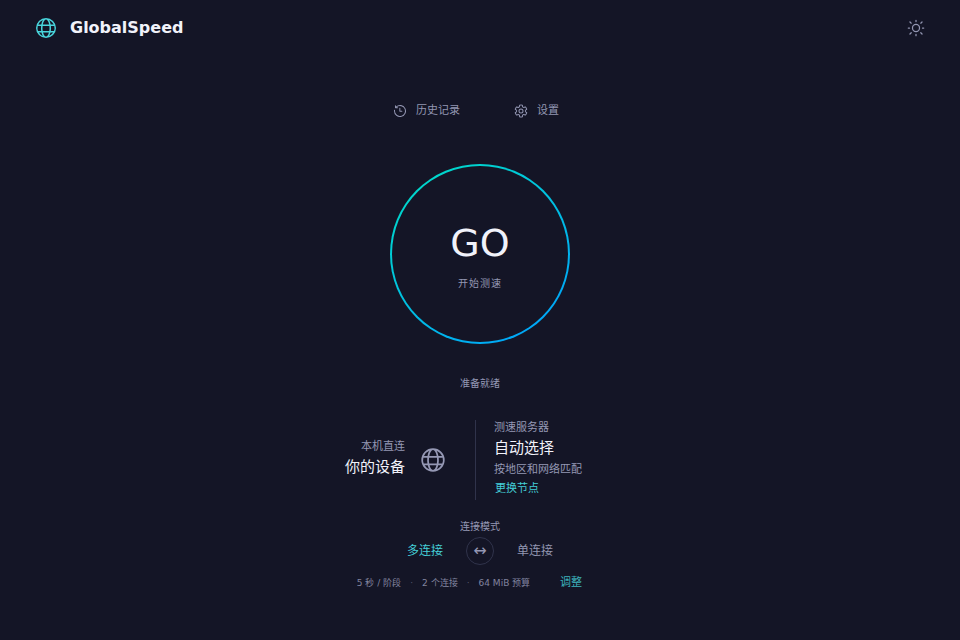
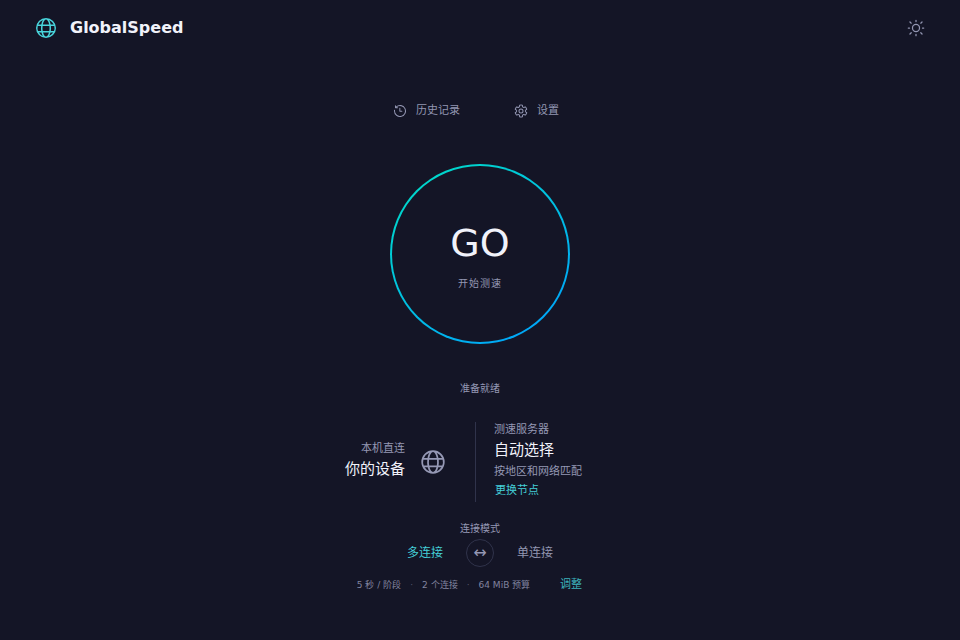
Recreate Speedtest-style gauge motion and document animation study

diff --git a/frontend/src/style.css b/frontend/src/style.css
@@ -1,4 +1,4 @@
-*{box-sizing:border-box}body{margin:0;font-family:"Segoe UI Variable","Segoe UI",system-ui,"PingFang SC",sans-serif}button,input,select{font:inherit}.app{--gs-bg:#f2f2f2;--gs-fg:#16171a;--gs-muted:#68738c;--gs-line:#dce2ed;--gs-accent:#007d95;--gs-upload:#875bc9;min-height:100vh;background:var(--gs-bg);color:var(--gs-fg)}[data-theme=dark] .app{--gs-bg:#141526;--gs-fg:#f1f2fa;--gs-muted:#9598b4;--gs-line:#30334b;--gs-accent:#49d5dc;--gs-upload:#b89afa}main{width:100%;min-height:100vh}header{height:56px;max-width:1080px;margin:auto;display:flex;align-items:center;justify-content:space-between;padding:0 28px}header nav{display:flex;gap:14px;align-items:center}header nav button{color:var(--gs-muted)!important;font-weight:400!important}header nav .nav-selected{color:var(--gs-fg)!important}.brand{background:none;border:0;color:var(--gs-fg);display:flex;align-items:center;gap:12px;text-align:left;cursor:pointer;font-size:16px;font-weight:650}.brand>svg{width:24px;height:24px;color:var(--gs-accent)}.brand small{display:block;font-size:8px;letter-spacing:2.4px;color:var(--gs-muted);margin-top:2px}.content{max-width:1000px;padding:24px 38px 32px;margin:auto}.speed-content{max-width:740px;padding:14px 28px 12px}.headline-metrics{display:flex;justify-content:center;gap:72px;text-align:center}.headline-metric{min-width:160px}.headline-metric>span{display:flex;align-items:center;justify-content:center;gap:8px;font-size:13px}.headline-metric svg{width:19px;height:19px;color:var(--gs-accent)}.headline-metric.upload svg{color:var(--gs-upload)}.headline-metric small{font-size:11px;color:var(--gs-muted)}.headline-metric strong{display:block;font-size:38px;line-height:1.3;font-weight:400;font-variant-numeric:tabular-nums;letter-spacing:-1px}.latency-row{display:flex;justify-content:center;align-items:center;gap:24px;color:var(--gs-muted);font-size:12px;margin-top:10px}.latency-row b{color:var(--gs-fg);font-weight:500;margin-left:10px}.latency-row small{margin-left:5px;font-size:10px}.latency-row i{height:12px;width:1px;background:var(--gs-line)}.test-stage{--gauge-width:clamp(270px,calc((100dvh - 320px)*1.12),400px);width:var(--gauge-width);max-width:100%;height:auto;aspect-ratio:480/370;position:relative;margin:12px auto 0;display:grid;place-items:center}.speedometer{width:100%;height:auto;position:absolute;inset:0;pointer-events:none;--gs-dial-color:var(--gs-accent)}.upload-dial{--gs-dial-color:var(--gs-upload)}.gauge-track{fill:none;stroke:var(--gs-line);stroke-width:12;stroke-linecap:round}.gauge-fill{fill:none;stroke:var(--gs-dial-color);stroke-width:12;stroke-linecap:round;filter:drop-shadow(0 0 7px color-mix(in srgb,var(--gs-dial-color) 25%,transparent));transition:stroke .25s}.gauge-tick{stroke:var(--gs-muted);stroke-width:1;opacity:.45}.gauge-label{fill:var(--gs-muted);font-size:11px;text-anchor:middle;dominant-baseline:middle}.gauge-needle line{stroke:var(--gs-dial-color);stroke-width:2.5;stroke-linecap:round}.gauge-needle circle{fill:var(--gs-dial-color)}.go-button{position:relative;width:32%;height:auto;aspect-ratio:1;margin-top:2%;border:1px solid var(--gs-line);border-radius:50%;background:var(--gs-bg);color:var(--gs-fg);display:flex;flex-direction:column;align-items:center;justify-content:center;cursor:pointer;transition:background .2s,border-color .2s}.go-button:hover{background:color-mix(in srgb,var(--gs-accent) 6%,var(--gs-bg));border-color:var(--gs-accent)}.go-button:focus-visible{outline:2px solid var(--gs-accent);outline-offset:5px}.go-button:disabled{cursor:default;opacity:.4}.go-button span{font-size:clamp(20px,3.2vh,26px);font-weight:400;letter-spacing:2px}.go-button small{font-size:10px;letter-spacing:3px;color:var(--gs-muted);margin-top:10px}.dial-reading{position:absolute;top:59%;left:50%;transform:translateX(-50%);min-width:160px;display:flex;align-items:center;flex-direction:column;gap:2px}.dial-reading>span{font-size:11px;color:var(--gs-muted)}.dial-reading strong{font-size:clamp(26px,4.5vh,36px);line-height:1.2;font-weight:400;font-variant-numeric:tabular-nums}.dial-reading>small{font-size:11px;color:var(--gs-muted)}.dial-reading button{color:var(--gs-muted)!important;font-size:11px;margin-top:4px;min-height:24px!important;padding:2px 8px!important}.status{margin-top:2px;text-align:center;min-height:22px;font-size:12px;color:var(--gs-muted)}.connection-info{display:grid;grid-template-columns:1fr 1.25fr;gap:50px;max-width:580px;margin:16px auto 0;padding-top:14px;border-top:1px solid var(--gs-line)}.device-info{display:flex;align-items:center;gap:15px}.device-info>svg{color:var(--gs-muted);width:28px;height:28px}.connection-info span,.connection-info small{display:block;font-size:11px;color:var(--gs-muted)}.connection-info strong{display:block;font-size:15px;font-weight:500;margin:6px 0}.connection-info small{font-size:10px}.server-info{display:flex;align-items:center;justify-content:space-between;gap:8px}.server-info button,.test-caption button{color:var(--gs-accent)!important;font-size:11px!important;font-weight:400!important}.test-caption{display:flex;align-items:center;justify-content:center;gap:9px;color:var(--gs-muted);font-size:10px;margin-top:10px}.test-caption span{opacity:.6}.secondary-content{padding-top:35px}.page-heading{margin-bottom:28px}h1{font-size:25px;font-weight:500;margin:0 0 10px}.page-heading p{font-size:12px;color:var(--gs-muted);margin:0}h2{font-size:15px;font-weight:500;margin:0}.filters{display:flex;gap:16px;margin-bottom:10px}.filters>*{flex:1}.secondary-content>div[class*="fui-Card"]{padding:24px;background:transparent;border:1px solid var(--gs-line);box-shadow:none}.settings-card{max-width:600px;margin:auto;gap:22px!important}.muted{font-size:12px;line-height:1.8;color:var(--gs-muted)}.pagination{display:flex;align-items:center;gap:8px;margin-top:14px;font-size:12px}.pagination span{margin-right:auto;color:var(--gs-muted)}.mono{font-family:ui-monospace,monospace;font-size:12px}.empty{text-align:center;padding:65px 20px;color:var(--gs-muted)}.empty svg{width:36px;height:36px;margin-bottom:20px}.empty p{font-size:12px}.error{border:1px solid #a85065;background:color-mix(in srgb,#a85065 10%,var(--gs-bg));border-radius:8px;padding:12px 16px;color:var(--gs-fg);font-size:12px;overflow-wrap:anywhere;margin-bottom:20px}@media(max-width:700px){header{padding:0 20px}header nav{gap:0}.brand small{display:none}.content{padding-left:20px;padding-right:20px}.headline-metrics{gap:30px}.headline-metric{min-width:130px}.connection-info{gap:20px}.headline-metric strong{font-size:40px}}
+*{box-sizing:border-box}body{margin:0;font-family:"Segoe UI Variable","Segoe UI",system-ui,"PingFang SC",sans-serif}button,input,select{font:inherit}.app{--gs-bg:#f2f2f2;--gs-fg:#16171a;--gs-muted:#68738c;--gs-line:#dce2ed;--gs-accent:#007d95;--gs-upload:#875bc9;min-height:100vh;background:var(--gs-bg);color:var(--gs-fg)}[data-theme=dark] .app{--gs-bg:#141526;--gs-fg:#f1f2fa;--gs-muted:#9598b4;--gs-line:#30334b;--gs-accent:#49d5dc;--gs-upload:#b89afa}main{width:100%;min-height:100vh}header{height:56px;max-width:1080px;margin:auto;display:flex;align-items:center;justify-content:space-between;padding:0 28px}header nav{display:flex;gap:14px;align-items:center}header nav button{color:var(--gs-muted)!important;font-weight:400!important}header nav .nav-selected{color:var(--gs-fg)!important}.brand{background:none;border:0;color:var(--gs-fg);display:flex;align-items:center;gap:12px;text-align:left;cursor:pointer;font-size:16px;font-weight:650}.brand>svg{width:24px;height:24px;color:var(--gs-accent)}.brand small{display:block;font-size:8px;letter-spacing:2.4px;color:var(--gs-muted);margin-top:2px}.content{max-width:1000px;padding:24px 38px 32px;margin:auto}.speed-content{max-width:740px;padding:14px 28px 12px}.headline-metrics{display:flex;justify-content:center;gap:72px;text-align:center}.headline-metric{min-width:160px}.headline-metric>span{display:flex;align-items:center;justify-content:center;gap:8px;font-size:13px}.headline-metric svg{width:19px;height:19px;color:var(--gs-accent)}.headline-metric.upload svg{color:var(--gs-upload)}.headline-metric small{font-size:11px;color:var(--gs-muted)}.headline-metric strong{display:block;font-size:38px;line-height:1.3;font-weight:400;font-variant-numeric:tabular-nums;letter-spacing:-1px}.latency-row{display:flex;justify-content:center;align-items:center;gap:24px;color:var(--gs-muted);font-size:12px;margin-top:10px}.latency-row b{color:var(--gs-fg);font-weight:500;margin-left:10px}.latency-row small{margin-left:5px;font-size:10px}.latency-row i{height:12px;width:1px;background:var(--gs-line)}.test-stage{--gauge-width:clamp(270px,calc((100dvh - 320px)*1.12),400px);width:var(--gauge-width);max-width:100%;height:auto;aspect-ratio:480/370;position:relative;margin:12px auto 0;display:grid;place-items:center}.speedometer{width:100%;height:auto;position:absolute;inset:0;pointer-events:none;--gs-dial-color:var(--gs-accent)}.upload-dial{--gs-dial-color:var(--gs-upload)}.gauge-track{fill:none;stroke:var(--gs-line);stroke-width:12;stroke-linecap:round}.gauge-fill{fill:none;stroke-width:12;stroke-linecap:round;filter:drop-shadow(0 0 7px color-mix(in srgb,var(--gs-dial-color) 25%,transparent));transition:stroke .25s}.gauge-tick{stroke:var(--gs-muted);stroke-width:1;opacity:.45}.gauge-label{fill:var(--gs-muted);font-size:11px;text-anchor:middle;dominant-baseline:middle}.gauge-needle line{stroke-width:2.5;stroke-linecap:round}.gauge-needle circle{fill:var(--gs-dial-color)}.go-button{position:relative;width:32%;height:auto;aspect-ratio:1;margin-top:2%;border:1px solid var(--gs-line);border-radius:50%;background:var(--gs-bg);color:var(--gs-fg);display:flex;flex-direction:column;align-items:center;justify-content:center;cursor:pointer;transition:background .2s,border-color .2s}.go-button:hover{background:color-mix(in srgb,var(--gs-accent) 6%,var(--gs-bg));border-color:var(--gs-accent)}.go-button:focus-visible{outline:2px solid var(--gs-accent);outline-offset:5px}.go-button:disabled{cursor:default;opacity:.4}.go-button span{font-size:clamp(20px,3.2vh,26px);font-weight:400;letter-spacing:2px}.go-button small{font-size:10px;letter-spacing:3px;color:var(--gs-muted);margin-top:10px}.dial-reading{position:absolute;top:59%;left:50%;transform:translateX(-50%);min-width:160px;display:flex;align-items:center;flex-direction:column;gap:2px}.dial-reading>span{font-size:11px;color:var(--gs-muted)}.dial-reading strong{font-size:clamp(26px,4.5vh,36px);line-height:1.2;font-weight:400;font-variant-numeric:tabular-nums}.dial-reading>small{font-size:11px;color:var(--gs-muted)}.dial-reading button{color:var(--gs-muted)!important;font-size:11px;margin-top:4px;min-height:24px!important;padding:2px 8px!important}.status{margin-top:2px;text-align:center;min-height:22px;font-size:12px;color:var(--gs-muted)}.connection-info{display:grid;grid-template-columns:1fr 1.25fr;gap:50px;max-width:580px;margin:16px auto 0;padding-top:14px;border-top:1px solid var(--gs-line)}.device-info{display:flex;align-items:center;gap:15px}.device-info>svg{color:var(--gs-muted);width:28px;height:28px}.connection-info span,.connection-info small{display:block;font-size:11px;color:var(--gs-muted)}.connection-info strong{display:block;font-size:15px;font-weight:500;margin:6px 0}.connection-info small{font-size:10px}.server-info{display:flex;align-items:center;justify-content:space-between;gap:8px}.server-info button,.test-caption button{color:var(--gs-accent)!important;font-size:11px!important;font-weight:400!important}.test-caption{display:flex;align-items:center;justify-content:center;gap:9px;color:var(--gs-muted);font-size:10px;margin-top:10px}.test-caption span{opacity:.6}.secondary-content{padding-top:35px}.page-heading{margin-bottom:28px}h1{font-size:25px;font-weight:500;margin:0 0 10px}.page-heading p{font-size:12px;color:var(--gs-muted);margin:0}h2{font-size:15px;font-weight:500;margin:0}.filters{display:flex;gap:16px;margin-bottom:10px}.filters>*{flex:1}.secondary-content>div[class*="fui-Card"]{padding:24px;background:transparent;border:1px solid var(--gs-line);box-shadow:none}.settings-card{max-width:600px;margin:auto;gap:22px!important}.muted{font-size:12px;line-height:1.8;color:var(--gs-muted)}.pagination{display:flex;align-items:center;gap:8px;margin-top:14px;font-size:12px}.pagination span{margin-right:auto;color:var(--gs-muted)}.mono{font-family:ui-monospace,monospace;font-size:12px}.empty{text-align:center;padding:65px 20px;color:var(--gs-muted)}.empty svg{width:36px;height:36px;margin-bottom:20px}.empty p{font-size:12px}.error{border:1px solid #a85065;background:color-mix(in srgb,#a85065 10%,var(--gs-bg));border-radius:8px;padding:12px 16px;color:var(--gs-fg);font-size:12px;overflow-wrap:anywhere;margin-bottom:20px}@media(max-width:700px){header{padding:0 20px}header nav{gap:0}.brand small{display:none}.content{padding-left:20px;padding-right:20px}.headline-metrics{gap:30px}.headline-metric{min-width:130px}.connection-info{gap:20px}.headline-metric strong{font-size:40px}}
 
 
 
@@ -50,3 +50,10 @@ html,body,#root{height:100%;overflow:hidden}
 
 .result-state .connection-mode{display:none}
 @media(max-height:620px){.result-state .test-stage{width:84px;height:84px}.result-state .connection-info{margin-top:10px}.result-state .connection-info span{display:none}.result-state .go-button span{font-size:23px}}
+
+.speedometer{--gs-gauge-start:#05af9a;--gs-gauge-end:#9af3b3}.upload-dial{--gs-gauge-start:#6857d8;--gs-gauge-end:#d19aef}.gauge-track{stroke-width:28;stroke-linecap:butt}.gauge-fill{stroke-width:28;stroke-linecap:butt;filter:none;transition:opacity .3s ease}.gauge-fill stop{transition:stop-color .3s ease}.gauge-morph{stroke:var(--gs-line)}.gauge-label{font-size:14px;font-weight:600;fill:var(--gs-muted);opacity:0;transition:fill .2s ease}.gauge-label-passed{fill:var(--gs-fg)}.running-state .gauge-label{animation:gauge-label-intro 80ms ease-out forwards}.gauge-switching .gauge-label{fill:var(--gs-muted)}.gauge-needle-shape{pointer-events:none}.dial-reading{top:62%;gap:0}.dial-reading>span{animation:stage-pulse 1s ease-in-out infinite alternate}.dial-reading strong{font-variant-numeric:tabular-nums}
+@keyframes gauge-label-intro{from{opacity:0}to{opacity:1}}
+@keyframes stage-pulse{from{opacity:.5}to{opacity:1}}
+@media(prefers-reduced-motion:reduce){.running-state .gauge-label,.dial-reading>span{animation:none;opacity:1}.gauge-fill,.gauge-label{transition:none}}
+
+.dial-reading{top:70%}.status{display:flex;align-items:center;justify-content:center;gap:12px;min-height:24px}.gauge-stop{font-size:10px!important;color:var(--gs-muted)!important;min-height:22px!important;padding:0 6px!important}.gauge-stop svg{width:14px;height:14px}.gauge-morph{pointer-events:none}

diff --git a/frontend/src/main.tsx b/frontend/src/main.tsx
@@ -24,37 +24,39 @@ function App(){
  const [duration,setDuration]=useState(5);const [connections,setConnections]=useState(2);const [budget,setBudget]=useState(64);
  const [latency,setLatency]=useState<Ping|null>(null);
  const [auto,setAuto]=useState(true);const [autoNode,setAutoNode]=useState<Server|null>(null);
- const [running,setRunning]=useState(false);const [status,setStatus]=useState('准备就绪');const [error,setError]=useState('');
+ const [running,setRunning]=useState(false);const [closing,setClosing]=useState(false);const [status,setStatus]=useState('准备就绪');const [error,setError]=useState('');
  const [progress,setProgress]=useState<Progress|null>(null);const [result,setResult]=useState<Result|null>(null);const [rates,setRates]=useState<{download?:number;upload?:number}>({});const [tablePage,setTablePage]=useState(0);
  const provinces=useMemo(()=>[...new Set(servers.map(s=>s.pname))],[servers]);
  const filtered=useMemo(()=>servers.filter(s=>(!province||s.pname===province)&&(!operator||s.oper===operator)&&(!search||`${s.hostname} ${s.hostip} ${s.location}`.includes(search))),[servers,province,operator,search]);
  const selected=auto?autoNode:servers.find(s=>s.hostid===serverId);
  useEffect(()=>{if(!filtered.some(s=>s.hostid===serverId))setServerId(filtered[0]?.hostid||'');setTablePage(0)},[filtered]);
  useEffect(()=>{if(running)return;setLatency(null);setResult(null);setProgress(null);setRates({});setError('');setStatus('准备就绪')},[serverId]);
+ useEffect(()=>{if(!closing)return;const timer=setTimeout(()=>setClosing(false),matchMedia('(prefers-reduced-motion: reduce)').matches?0:820);return()=>clearTimeout(timer)},[closing]);
  useEffect(()=>{document.documentElement.dataset.theme=dark?'dark':'light';localStorage.setItem('theme',dark?'dark':'light')},[dark]);
  useEffect(()=>{
   const app=bridge();if(!app){setStatus('请使用桌面程序启动测速');return}
   app.ListServers().then(setServers).catch(e=>setError(String(e)));app.History().then(setRecords).catch(e=>setError(String(e)));
   const events:{[name:string]:(data:any)=>void}={
    'speed:progress':(p:Progress)=>{if(p.ping)setLatency(p.ping);if(p.server)setAutoNode(p.server);setProgress(p);setStatus(phaseNames[p.phase]||p.phase);if(p.phase==='download'||p.phase==='upload')setRates(old=>({...old,[p.phase]:p.mbps}))},
-   'speed:result':(r:Result)=>{setResult(r);if(r.ping)setLatency(r.ping);setAutoNode(r.server);setRunning(false);setStatus('测速完成 · 会话已释放');app.History().then(setRecords).catch(e=>setError(String(e)))},
+   'speed:result':(r:Result)=>{setClosing(true);setResult(r);if(r.ping)setLatency(r.ping);setAutoNode(r.server);setRunning(false);setStatus('测速完成 · 会话已释放');app.History().then(setRecords).catch(e=>setError(String(e)))},
    'speed:error':(e:string)=>{setRunning(false);setProgress(null);setResult(null);setStatus(e.includes('context canceled')?'测速已停止':'测速失败');setError(e==='context canceled'?'':e)},
    'speed:notice':(e:string)=>setError(e),
   };
   Object.entries(events).forEach(([name,handler])=>window.runtime?.EventsOn(name,handler,-1));
   return()=>Object.keys(events).forEach(name=>window.runtime?.EventsOff(name));
  },[]);
- async function start(){const app=bridge();if(!app)return;setRunning(true);if(auto)setAutoNode(null);setLatency(null);setError('');setResult(null);setProgress(null);setRates({});setStatus('连接所选节点…');try{await app.StartSpeed({auto,match:{province,operator},serverId:auto?'':serverId,durationSeconds:duration,connections,maxMiB:budget})}catch(e){setRunning(false);setStatus('测速失败');setError(String(e))}}
+ async function start(){const app=bridge();if(!app)return;setClosing(false);setRunning(true);if(auto)setAutoNode(null);setLatency(null);setError('');setResult(null);setProgress(null);setRates({});setStatus('连接所选节点…');try{await app.StartSpeed({auto,match:{province,operator},serverId:auto?'':serverId,durationSeconds:duration,connections,maxMiB:budget})}catch(e){setRunning(false);setStatus('测速失败');setError(String(e))}}
  async function stop(){setStatus('正在停止并释放会话…');try{await bridge()?.StopSpeed()}catch(e){setError(String(e))}}
  const shownPing=result?.ping??latency;
  const measuring=running&&(progress?.phase==='download'||progress?.phase==='upload');
- const liveSpeed=useAnimatedSpeed(progress?.mbps??0,measuring,progress?.phase??'idle');
- const downSpeed=result?.download.mbps??(running?(progress?.phase==='download'?liveSpeed:rates.download):undefined);
- const upSpeed=result?.upload.mbps??(running?(progress?.phase==='upload'?liveSpeed:rates.upload):undefined);
+ const motion=useAnimatedSpeed(progress?.mbps??0,measuring,progress?.phase??'idle');
+ const liveSpeed=motion.value;
+ const downSpeed=result?.download.mbps??(running?(progress?.phase==='download'?(motion.switching?undefined:liveSpeed):rates.download):undefined);
+ const upSpeed=result?.upload.mbps??(running?(progress?.phase==='upload'?(motion.switching?undefined:liveSpeed):rates.upload):undefined);
  const nodeFilters=<div className="filters"><Field label="省份"><Select value={province} disabled={running} onChange={(_,d)=>{setProvince(d.value);setOperator('')}}><option value="">全部省份</option>{provinces.map(p=><option key={p}>{p}</option>)}</Select></Field><Field label="运营商"><Select value={operator} disabled={running} onChange={(_,d)=>setOperator(d.value)}><option value="">全部运营商</option>{['电信','联通','移动','教育网','广电网'].map(o=><option key={o}>{o}</option>)}</Select></Field></div>;
  return <FluentProvider theme={dark?webDarkTheme:webLightTheme} className="app" style={{backgroundColor:'var(--gs-bg)',color:'var(--gs-fg)'}}>
   <main className={`page-${page}`}><header><button className="brand" onClick={()=>setPage('speed')}><Globe24Regular/><span>GlobalSpeed</span></button><nav>{[{id:'speed',name:'网络测速'},{id:'history',name:'历史记录'},{id:'settings',name:'设置'}].map(item=><Button key={item.id} appearance="transparent" className={page===item.id?'nav-selected':''} onClick={()=>setPage(item.id)}>{item.name}</Button>)}<Button appearance="transparent" icon={dark?<WeatherSunny24Regular/>:<WeatherMoon24Regular/>} aria-label="切换主题" onClick={()=>setDark(!dark)}/></nav></header>
-  <div className={page==='speed'?`content speed-content ${running?'running-state':result?'result-state':'ready-state'}`:'content secondary-content'}>
+  <div className={page==='speed'?`content speed-content ${running||closing?'running-state':result?'result-state':'ready-state'}`:'content secondary-content'}>
   {page!=='speed'&&<div className="page-heading"><h1>{({nodes:'选择测速节点',history:'测速历史',settings:'设置'} as Record<string,string>)[page]}</h1><p>{page==='nodes'?'按地区与运营商筛选节点':page==='history'?'最近 100 次成功测量':'采样参数与界面外观'}</p></div>}
   {error&&<div className="error" role="alert">{error}</div>}
   {page==='speed'&&<>
@@ -62,10 +64,10 @@ function App(){
    <div className="headline-metrics"><div className="headline-metric download"><span><ArrowDown24Regular/>下载 <small>Mbps</small></span><strong>{number(downSpeed)}</strong></div><div className="headline-metric upload"><span><ArrowUp24Regular/>上传 <small>Mbps</small></span><strong>{number(upSpeed)}</strong></div></div>
    <div className="latency-row"><span title="优先 ICMP；不可用时按原版回退到 TCP，显示均值">Ping{shownPing?` · ${shownPing.method.toUpperCase()}`:''} <b>{number(shownPing?.status===0?shownPing.averageMs:undefined)}</b><small>ms</small></span><i/><span title="按原版算法统计相邻成功样本差值">抖动 <b>{number(shownPing?.status===0?shownPing.jitterMs:undefined)}</b><small>ms</small></span></div>
    <div className={'test-stage '+(running?'is-running':'')}>
-    <Speedometer value={liveSpeed} active={measuring} upload={progress?.phase==='upload'}/>
-    {running?<div className="dial-reading"><span>{progress?.phase==='upload'?'上传':progress?.phase==='download'?'下载':'连接中'}</span><strong>{progress?.phase==='download'||progress?.phase==='upload'?number(liveSpeed):'—'}</strong><small>Mbps</small><Button appearance="transparent" icon={<Dismiss24Regular/>} onClick={stop}>停止测速</Button></div>:<button className="go-button" aria-label="开始测速" disabled={(!auto&&!selected)||!bridge()} onClick={start}><span>GO</span><small>{result?'再测一次':'开始测速'}</small></button>}
+    <Speedometer value={liveSpeed} angle={motion.angle} active={measuring} running={running} switching={motion.switching} upload={progress?.phase==='upload'}/>
+    {running||closing?<div className="dial-reading"><span>{closing?'测速完成':motion.switching?'切换阶段':progress?.phase==='upload'?'上传':progress?.phase==='download'?'下载':'连接中'}</span><strong>{closing?number(result?.upload.mbps):progress?.phase==='download'||progress?.phase==='upload'?(motion.switching?'—':number(liveSpeed)):'—'}</strong><small>Mbps</small></div>:<button className="go-button" aria-label="开始测速" disabled={(!auto&&!selected)||!bridge()} onClick={start}><span>GO</span><small>{result?'再测一次':'开始测速'}</small></button>}
    </div>
-   <div className="status" role="status">{status}</div>
+   <div className="status"><span role="status">{status}</span>{running&&<Button appearance="transparent" className="gauge-stop" icon={<Dismiss24Regular/>} onClick={stop}>停止测速</Button>}</div>
    <div className="connection-info"><div className="device-info"><Globe24Regular/><div><span>本机直连</span><strong>你的设备</strong></div></div><div className="server-info"><div><span>测速服务器</span><strong>{selected?.hostname||(auto?'自动选择':'选择节点')}</strong><small>{selected?`${selected.hostip}:${selected.port}`:(auto?'按地区和网络匹配':'606 个运营商节点')}</small></div><Button appearance="transparent" disabled={running} onClick={()=>setPage('nodes')}>更换节点</Button></div></div>
    <div className="connection-mode"><span>连接模式</span><div><Button appearance="transparent" disabled={running} className={connections>1?'mode-active':''} onClick={()=>setConnections(2)}>多连接</Button><span className="connection-divider">↔</span><Button appearance="transparent" disabled={running} className={connections===1?'mode-active':''} onClick={()=>setConnections(1)}>单连接</Button></div></div>
    <div className="test-caption">{duration} 秒 / 阶段 <span>·</span> {connections} 个连接 <span>·</span> {budget} MiB 预算<Button appearance="transparent" size="small" disabled={running} onClick={()=>setPage('settings')}>调整</Button></div>

diff --git a/frontend/src/Speedometer.tsx b/frontend/src/Speedometer.tsx
@@ -1,17 +1,46 @@
-const MAX=1000;
-const fraction=(speed:number)=>Math.log1p(Math.max(0,Math.min(MAX,speed)))/Math.log1p(MAX);
-const point=(angle:number,radius:number)=>{const rad=angle*Math.PI/180;return {x:240+radius*Math.cos(rad),y:210+radius*Math.sin(rad)}};
-const angle=(speed:number)=>150+240*fraction(speed);
-const arc=(()=>{const start=point(150,160),end=point(390,160);return `M${start.x},${start.y} A160,160 0 1 1 ${end.x},${end.y}`})();
-type Props={value:number;active:boolean;upload:boolean};
-export function Speedometer({value,active,upload}:Props){
- const ticks=[0,1,5,10,50,100,500,1000];
- const needle=point(angle(active?value:0),143);
- return <svg className={'speedometer '+(upload?'upload-dial':'')} viewBox="0 0 480 370" role="img" aria-label="实时速度表" data-speed={value.toFixed(3)}>
-  <path className="gauge-track" d={arc} pathLength="100"/>
-  <path className="gauge-fill" d={arc} pathLength="100" strokeDasharray={`${active?fraction(value)*100:0} 100`}/>
-  {Array.from({length:49},(_,i)=>{const outer=point(150+i*5,148),inner=point(150+i*5,i%4===0?136:142);return <line key={i} className="gauge-tick" x1={inner.x} y1={inner.y} x2={outer.x} y2={outer.y}/>})}
-  {ticks.map(speed=>{const pos=point(angle(speed),190);return <text key={speed} className="gauge-label" x={pos.x} y={pos.y}>{speed===1000?'1k+':speed}</text>})}
-  {active&&<g className="gauge-needle"><line x1="240" y1="210" x2={needle.x} y2={needle.y}/><circle cx="240" cy="210" r="5"/></g>}
+import {useEffect,useId,useRef,useState} from 'react';
+import {gaugeStart,gaugeTicks,curve} from './gaugeMotion';
+const center={x:240,y:190},radius=160;
+const point=(angle:number,r:number)=>{const rad=(angle-90)*Math.PI/180;return {x:center.x+r*Math.cos(rad),y:center.y+r*Math.sin(rad)}};
+const start=point(-135,radius),end=point(135,radius);
+const arc=`M${start.x},${start.y} A${radius},${radius} 0 1 1 ${end.x},${end.y}`;
+type Props={value:number;angle:number;active:boolean;running:boolean;upload:boolean;switching:boolean};
+export function Speedometer({value,angle,active,running,upload,switching}:Props){
+ const id=useId().replace(/:/g,'');
+ const lastAngle=useRef(gaugeStart);if(active)lastAngle.current=angle;
+ const [morph,setMorph]=useState({mode:'idle',progress:0});
+ const wasRunning=useRef(false);
+ useEffect(()=>{
+  const mode=running?'entry':wasRunning.current?'exit':'idle';wasRunning.current=running;
+  if(mode==='idle'){setMorph({mode,progress:0});return;}
+  if(matchMedia('(prefers-reduced-motion: reduce)').matches){setMorph({mode:running?'live':'idle',progress:running?1:0});return;}
+  let frame=0;const started=performance.now(),duration=mode==='entry'?350:820;
+  setMorph({mode,progress:0});
+  const animate=(now:number)=>{const progress=Math.min(1,(now-started)/duration);setMorph({mode:progress===1?(running?'live':'idle'):mode,progress});if(progress<1)frame=requestAnimationFrame(animate)};
+  frame=requestAnimationFrame(animate);return()=>cancelAnimationFrame(frame);
+ },[running]);
+ const entry=morph.mode==='entry'?morph.progress:morph.mode==='live'?1:0;
+ const exiting=morph.mode==='exit',exitTime=morph.progress*820;
+ const expanded=curve(Math.min(1,entry*350/200),true);
+ const opened=curve(Math.max(0,(entry*350-200)/150),true);
+ const displayAngle=active?angle:exiting?lastAngle.current:gaugeStart;
+ const progress=(displayAngle-gaugeStart)/270;
+ return <svg className={`speedometer ${upload?'upload-dial':''} ${switching?'gauge-switching':''}`} viewBox="0 0 480 370" role="img" aria-label="实时速度表" data-speed={value.toFixed(3)} data-angle={displayAngle.toFixed(3)} data-switching={switching} data-morph={morph.mode}>
+  <defs>
+   <linearGradient id={`${id}-arc`} x1="0" y1="1" x2="1" y2="0"><stop offset="0" stopColor="var(--gs-gauge-start)"/><stop offset="1" stopColor="var(--gs-gauge-end)"/></linearGradient>
+   <linearGradient id={`${id}-needle`} x1="0" y1="0" x2="0" y2="1"><stop offset="0" stopColor="var(--gs-fg)" stopOpacity=".7"/><stop offset="1" stopColor="var(--gs-fg)" stopOpacity="0"/></linearGradient>
+  </defs>
+  {(morph.mode==='entry'||exiting)&&<circle className="gauge-morph" cx={center.x} cy={center.y}
+   r={exiting?160-105*curve(Math.max(0,(exitTime-420)/220),true):55+105*expanded}
+   fill="none" strokeWidth={exiting?28+82*curve(Math.max(0,(exitTime-420)/220),true):110-82*expanded}
+   opacity={exiting?(exitTime<200?0:1-curve(Math.max(0,(exitTime-640)/180))):1}
+   pathLength="100" strokeDasharray={`${exiting?75+25*curve(Math.max(0,(exitTime-200)/220),true):100-25*opened} 100`}
+   transform={`rotate(135 ${center.x} ${center.y})`}/>}
+  <g opacity={exiting?1-curve(Math.min(1,exitTime/100)):entry===1?1:0}>
+   <path className="gauge-track" d={arc} pathLength="100"/>
+   <path className="gauge-fill" d={arc} pathLength="100" stroke={`url(#${id}-arc)`} strokeDasharray={`${Math.max(0,progress)*100} 100`} opacity={(active||exiting)&&!switching?1:0}/>
+   {gaugeTicks.map((speed,index)=>{const theta=gaugeStart+index*270/(gaugeTicks.length-1),pos=point(theta,121);return <text key={speed} className={`gauge-label ${displayAngle>=theta?'gauge-label-passed':''}`} x={pos.x} y={pos.y} style={{animationDelay:`${index*80}ms`}}>{speed===1000?'1000+':speed}</text>})}
+   {(active||exiting)&&<g transform={`rotate(${displayAngle} ${center.x} ${center.y})`}><path className="gauge-needle-shape" d={`M230,190 L250,190 L243,80 L237,80 Z`} fill={`url(#${id}-needle)`}/></g>}
+  </g>
  </svg>
 }

diff --git a/frontend/src/useAnimatedSpeed.ts b/frontend/src/useAnimatedSpeed.ts
@@ -1,25 +1,40 @@
 import {useEffect,useRef,useState} from 'react';
+import {curve,gaugeAngle,gaugeStart} from './gaugeMotion';
 
-// Presentation only: original samples and final results are not modified.
+type Motion={value:number;angle:number;switching:boolean};
+const empty:Motion={value:0,angle:gaugeStart,switching:false};
+// Presentation state only. Retarget from the currently displayed frame,
+// with a dedicated 500 ms return before tracking the next direction.
 export function useAnimatedSpeed(target:number,active:boolean,phase:string){
- const [value,setValue]=useState(0);
- const current=useRef(0);
- const previousPhase=useRef(phase);
+ const [motion,setMotion]=useState<Motion>(empty);
+ const current=useRef<Motion>(empty);
+ const previousPhase=useRef('idle');
+ const returning=useRef<{start:number;from:Motion}|null>(null);
  useEffect(()=>{
-  if(previousPhase.current!==phase || !active){current.current=0;setValue(0);previousPhase.current=phase;}
-  if(!active)return;
+  if(!active){current.current=empty;setMotion(empty);previousPhase.current='idle';returning.current=null;return;}
   const reduced=matchMedia('(prefers-reduced-motion: reduce)').matches;
   const goal=Number.isFinite(target)?Math.max(0,target):0;
-  if(reduced){current.current=goal;setValue(goal);return;}
-  let frame=0,last=performance.now();
+  if(previousPhase.current!==phase){
+   if(previousPhase.current!=='idle'&&!reduced)returning.current={start:performance.now(),from:current.current};
+   previousPhase.current=phase;
+  }
+  if(reduced){current.current={value:goal,angle:gaugeAngle(goal),switching:false};setMotion(current.current);return;}
+  let frame=0,started=performance.now(),from=current.current;
   const animate=(now:number)=>{
-   const elapsed=Math.min(64,now-last);last=now;
-   current.current+=(goal-current.current)*(1-Math.exp(-elapsed/220));
-   if(Math.abs(goal-current.current)<.005){current.current=goal;setValue(goal);return;}
-   setValue(current.current);frame=requestAnimationFrame(animate);
+   if(returning.current){
+    const reset=returning.current,progress=Math.min(1,(now-reset.start)/500),weight=curve(progress,true);
+    current.current={value:reset.from.value*(1-weight),angle:reset.from.angle+(gaugeStart-reset.from.angle)*weight,switching:progress<1};
+    if(progress===1){returning.current=null;started=now;from=current.current;}
+   }else{
+    const progress=Math.min(1,(now-started)/200),weight=curve(progress);
+    current.current={value:from.value+(goal-from.value)*weight,angle:from.angle+(gaugeAngle(goal)-from.angle)*weight,switching:false};
+    setMotion(current.current);
+    if(progress===1)return;
+   }
+   setMotion(current.current);frame=requestAnimationFrame(animate);
   };
   frame=requestAnimationFrame(animate);
   return()=>cancelAnimationFrame(frame);
  },[target,active,phase]);
- return value;
+ return motion;
 }

diff --git a/frontend/src/gaugeMotion.ts b/frontend/src/gaugeMotion.ts
@@ -1,0 +1,20 @@
+// A segmented scale: each interval occupies the same angle, while values
+// interpolate linearly inside that interval. Angles are measured from 12 o'clock.
+export const gaugeTicks=[0,5,10,50,100,250,500,750,1000];
+export const gaugeStart=-135;
+export function gaugeAngle(speed:number){
+ const value=Number.isFinite(speed)?Math.max(0,speed):0;
+ const segment=gaugeTicks.findIndex(limit=>limit>=value);
+ if(segment<0)return 135;
+ if(segment===0)return gaugeStart;
+ const lower=gaugeTicks[segment-1],upper=gaugeTicks[segment];
+ return gaugeStart+((segment-1)+(value-lower)/(upper-lower))*270/(gaugeTicks.length-1);
+}
+export function curve(progress:number,inOut=false){
+ const t=Math.min(1,Math.max(0,progress));if(t===0||t===1)return t;
+ const x1=inOut?.42:0,x2=.58;
+ const axis=(p:number,a:number,b:number)=>3*(1-p)*(1-p)*p*a+3*(1-p)*p*p*b+p*p*p;
+ let lower=0,upper=1;
+ for(let i=0;i<16;i++){const middle=(lower+upper)/2;if(axis(middle,x1,x2)<t)lower=middle;else upper=middle;}
+ return axis((lower+upper)/2,0,1);
+}

diff --git a/docs/gauge-animation.md b/docs/gauge-animation.md
@@ -1,0 +1,39 @@
+# 仪表动画
+
+## 参考研究
+
+2026-10-05 使用浏览器打开 [Speedtest 官网](https://www.speedtest.net/)，读取页面实际加载的 [前端 JavaScript](https://r.cdnst.net/assets/index-BN2jg79U.js)。该资源文件名可能随发布变化。原始脚本和研究截图只保存在本地临时目录，不加入本项目。
+
+读取到的机制：
+
+| 项目 | 官网实现 |
+| --- | --- |
+| 绘制与驱动 | SVG，React，Motion 的逐帧动画 |
+| 表盘 | 270°，角度从 -135° 到 135° |
+| 刻度 | 0、5、10、50、100、250、500、750、1000 |
+| 速度映射 | 刻度等角度排列，每段内部按速度线性插值，超量程时停在末端 |
+| 实时指针 | 200 ms，ease-out：cubic-bezier(0,0,0.58,1) |
+| 阶段回针 | 500 ms，ease-in-out：cubic-bezier(0.42,0,0.58,1) |
+| 入场 | 圆盘展开成环约 200 ms，环打开为弧约 150 ms |
+| 刻度 | 逐个间隔 80 ms，淡入约 80 ms |
+| 结束 | 100 ms 淡出、100 ms 暂停、220 ms 弧变环、220 ms 环变盘、180 ms 淡出 |
+| 配色 | 上下行及单/多连接有独立渐变纹理；指针为半透明宽指针 |
+
+数值观察有一个差别：官网仪表数字直接格式化当前采样值，指针单独缓动。本项目继续让数字也做缓动，以满足实时读数平滑的要求。
+
+## GlobalSpeed 实现
+
+本项目自行编写动画，不引入官网测量引擎、广告、原始脚本或渐变图片。
+
+- `frontend/src/gaugeMotion.ts`：分段角度映射与贝塞尔缓动。
+- `frontend/src/useAnimatedSpeed.ts`：200 ms 指针/数字重定向，阶段切换先回到零点，随后跟随最新采样。
+- `frontend/src/Speedometer.tsx`：270° SVG 表盘、独立渐变、宽指针、圆盘/环/弧变形。
+- `frontend/src/main.tsx`：在测速结束后保留约 820 ms 的回收展示，再显示最终结果。
+
+刻度位置和跟随/回针时间按参考行为实现；颜色使用本项目生成的 SVG 渐变。量程固定至 1000 Mbps，末端标为 1000+；更高速度仍按实际数值显示，指针停在量程末端。布局保留 GlobalSpeed 的紧凑窗口适配。
+
+动画只影响展示。Go 核心的采样、最终结果、流量预算与历史数据均不因动画而改变。启用系统“减少动态效果”时直接更新数值，跳过变形和回针等待。
+
+## 验证
+
+浏览器检查覆盖分段量程、贝塞尔中点、实时中间值、最终数值不变、阶段回针、入场与退出状态，以及 800×520、960×640、1280×720 客户区的内容完整性。使用模拟 Go 事件，未运行官网速度测试。

diff --git a/README.md b/README.md
@@ -8,7 +8,7 @@
 
 ![GlobalSpeed desktop](docs/desktop-preview.png)
 
-实时读数与指针使用逐帧平滑动画；最终测速数值和历史记录使用原始测量结果。
+实时仪表使用 270° 分段刻度、200 ms 缓动跟随与 500 ms 阶段回针，带入场变形、刻度渐显及结束回收。最终测速数值和历史记录使用原始测量结果。实现说明见 [仪表动画](docs/gauge-animation.md)。
 
 ## 功能
 
